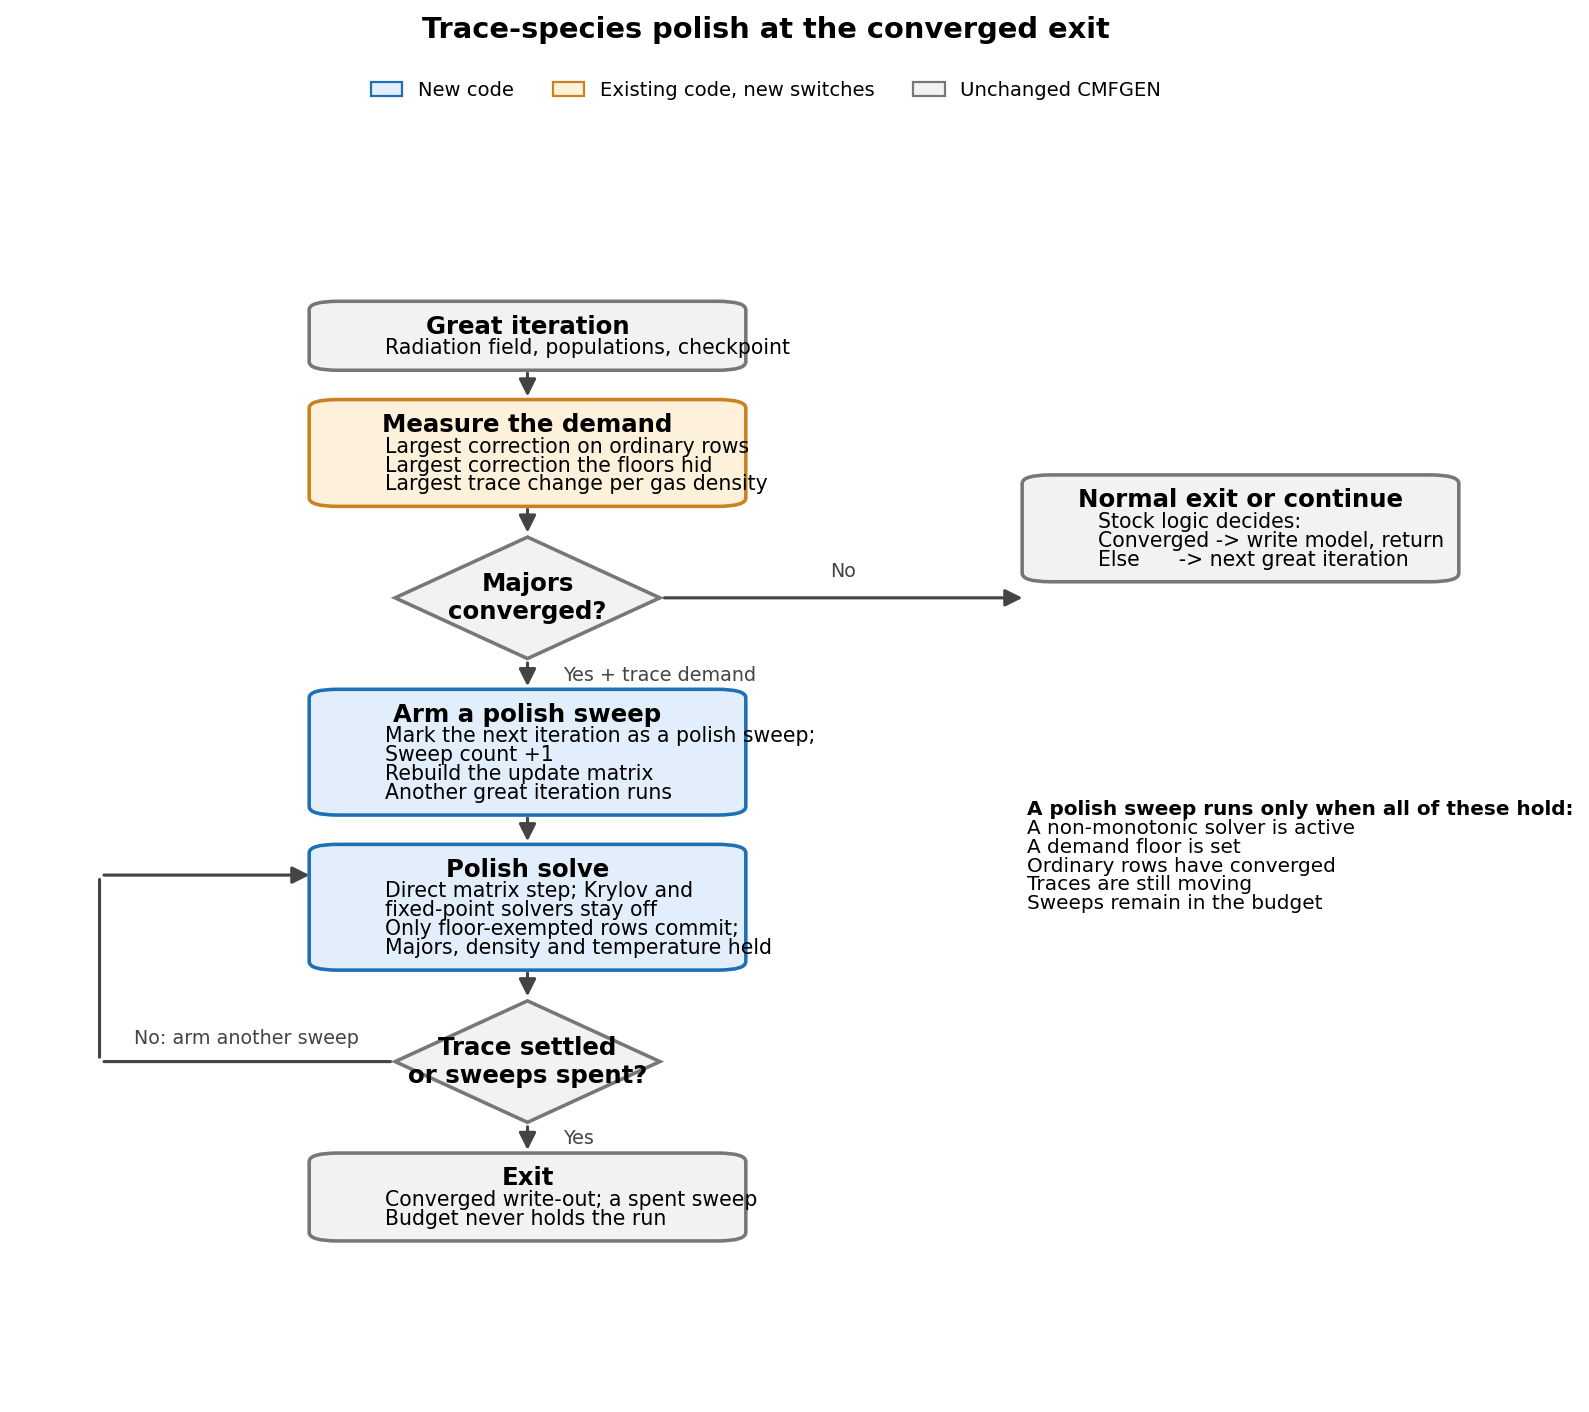
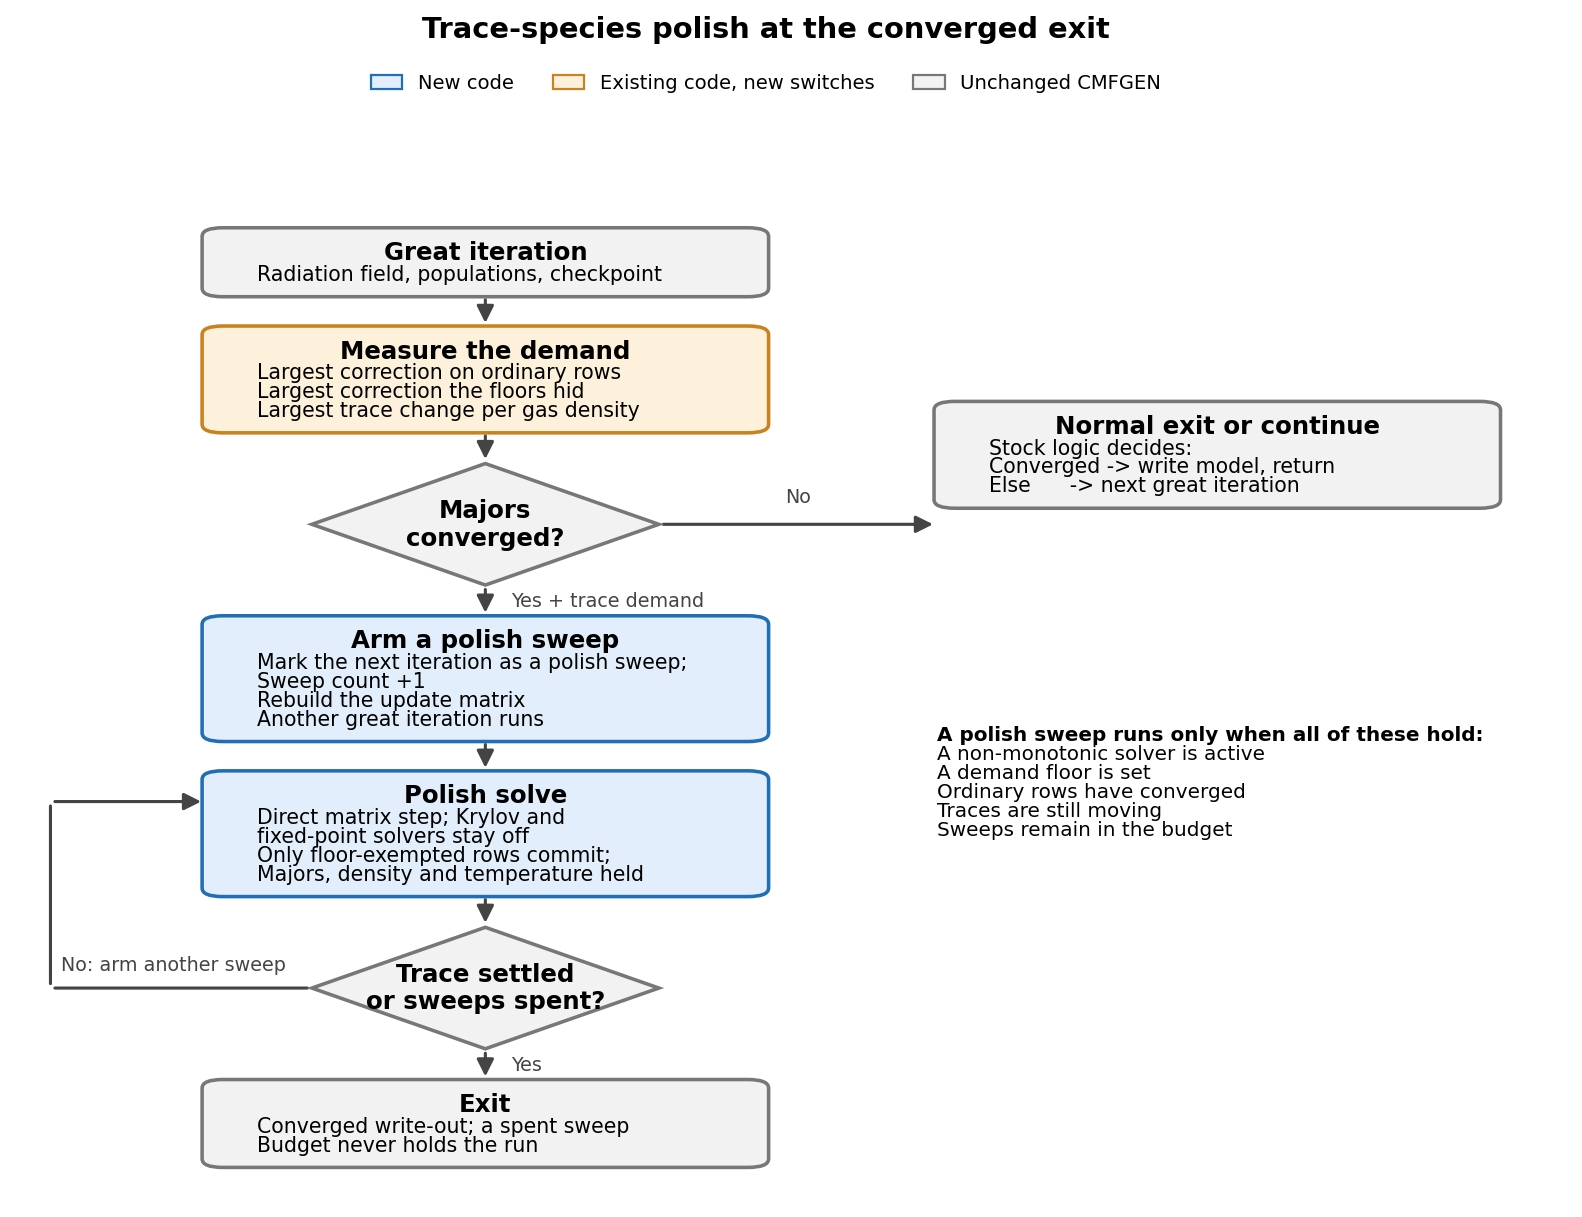
docs: fix stage_b_flow box overflow and top whitespace
The min_sep column-spacing bump grew XLIM after BOX_W was computed,
so the pixel-to-axis-unit conversion widened the text past the box
edges.  Solve XLIM from the layout constraints directly and exclude
the note column and diamonds from the box-width measurement.

Generated with [Devin](https://devin.ai)

diff --git a/docs/plot_stage_b_flow.py b/docs/plot_stage_b_flow.py
@@ -149,29 +149,37 @@ TRIGGER = [
 # ---------------------------------------------------------------
 # Measure text so the canvas fits the widest box.
 # ---------------------------------------------------------------
+# Only box text sizes the boxes; notes and diamonds have their own
+# layout.  TRIGGER lines render at 9 pt, so they are measured at 9 pt.
 items = []
 for b in MAIN + [SIDE, ARM, SOLVE, EXIT]:
     items.append((b["title"], FS_TITLE, "bold"))
     items += [(ln, FS_BODY, "normal") for ln in b["lines"]]
-for t in [DEC1, DEC2] + TRIGGER:
-    for ln in t.split("\n"):
-        items.append((ln, FS_TITLE, "bold"))
 
 px = measure_px(items)
+px.update(measure_px(
+    [(ln, FS_TITLE, "bold") for t in [DEC1, DEC2]
+     for ln in t.split("\n")]
+    + [(TRIGGER[0], 9.0, "bold")]
+    + [(ln, 9.0, "normal") for ln in TRIGGER[1:]]))
+
 aw_px = FIG_W_IN * DPI * AX_W_FRAC
-wbox_px = max(px.values())
+wbox_px = max(px[ln] for b in MAIN + [SIDE, ARM, SOLVE, EXIT]
+              for ln in [b["title"]] + b["lines"])
 
-S = (0.6 + TXT_PAD_L + TXT_PAD_R + 0.3) / (1.0 - wbox_px / aw_px)
-BOX_W = wbox_px * 1.06 * S / aw_px + TXT_PAD_L + TXT_PAD_R
-# Keep the side column clear of the main column.
-min_sep = BOX_W + 1.2
-if S * 0.46 < min_sep:
-    S = min_sep / 0.46
-X_MAIN = S * 0.33
-X_SIDE = S * 0.79
-XLIM = S
+# Layout: main column at X_MAIN, note column at X_SIDE.  BOX_W grows
+# with XLIM (pixels convert at XLIM/aw_px) and XLIM must contain
+# BOX_W twice plus the column gap and margins, so solve directly.
+COL_GAP = 1.0
+A = wbox_px * 1.06 / aw_px
+B = TXT_PAD_L + TXT_PAD_R
+# XLIM = 2*BOX_W + COL_GAP + left loop margin (1.1) + right margin (0.4)
+XLIM = (2 * B + COL_GAP + 1.5) / (1.0 - 2.0 * A)
+BOX_W = A * XLIM + B
+X_MAIN = BOX_W / 2 + 1.1
+X_SIDE = X_MAIN + BOX_W + COL_GAP
 
-fig_h = 17.0
+fig_h = 14.6
 fig, ax = plt.subplots(figsize=(FIG_W_IN, fig_h * 0.58))
 ax.set_xlim(0, XLIM)
 ax.set_ylim(0, fig_h)
@@ -190,7 +198,7 @@ fig.legend(handles=handles, loc="upper center", ncol=3,
            bbox_to_anchor=(0.5, 0.955), frameon=False, fontsize=8.8,
            handlelength=1.6)
 
-y = fig_h - 1.7
+y = fig_h - 1.0
 
 bounds = []
 for b in MAIN:
